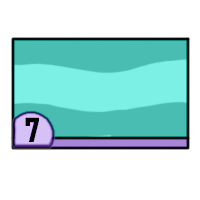
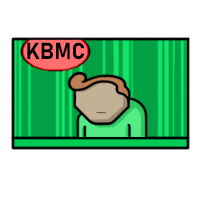
added new tv stations, and ways to display them without the same color appearing twice

diff --git a/jspsych/plugins/jspsych-source-choice.js b/jspsych/plugins/jspsych-source-choice.js
@@ -42,11 +42,11 @@ jsPsych.plugins['source-choice'] = (function(){
         default: 'high',
         description: 'If "high" then all TVs different; if "med" then one repeated 3 times; if "low" one repeated 4 times'
       },
-      anchor_ids: {
+      channel_ids: {
         type: jsPsych.plugins.parameterType.INT,
         array: true,
         default: [0, 1, 2, 3, 4],
-        description: 'Which anchor IDs to use (shuffle in main expt script)'
+        description: 'Which channel IDs to use (shuffle in main expt script)'
       },
       agreement: {
         type: jsPsych.plugins.parameterType.STRING,
@@ -212,10 +212,10 @@ jsPsych.plugins['source-choice'] = (function(){
     var rating_alert;
     var check_alert;
     if(trial.rating_type=='likelihood'){
-      rating_alert = 'Click on the bar to rate how <b>likely</b> you think this is.';
+      rating_alert = 'Click on the bar to rate how likely you think this is.';
       check_alert = 'No, look closely. Someone else thinks there is an even higher chance.';
     } else {
-      rating_alert = 'Click on the bar to rate how <b>favorably</b> you view this.';
+      rating_alert = 'Click on the bar to rate how favorably you view this.';
       check_alert = 'No, look closely. Someone else has an even more favorable view.';
     }
 
@@ -411,7 +411,6 @@ jsPsych.plugins['source-choice'] = (function(){
       var thought;
       var tvs = [];
       var backgrounds = [];
-      var anchors = [];
       var jaws = [];
       var remotesImg = [];
       var remotes = [];
@@ -431,7 +430,7 @@ jsPsych.plugins['source-choice'] = (function(){
           {r: 247, g: 147, b: 35}, {r: 9, g: 202, b: 237}];
       var hairColors = [{r: 236, g: 236, b: 25}, {r: 160, g: 68, b: 11}, {r: 167, g: 113, b: 13},
           {r: 93, g: 51, b: 4}, {r: 39, g: 26, b: 11}];
-      var headColors = [{r: 79, g: 44, b: 16}, {r: 220, g: 182, b: 83}, {r: 250, g: 235, b: 173},
+      var headColors = [{r: 117, g: 60, b: 16}, {r: 220, g: 182, b: 83}, {r: 250, g: 235, b: 173},
           {r: 209, g: 160, b: 69}, {r: 124, g: 93, b: 35}];
       var legColors = [{r: 43, g: 107, b: 171}, {r: 114, g: 181, b: 249}, {r: 41, g: 83, b: 125},
           {r: 130, g: 150, b: 169}, {r: 194, g: 188, b: 175}];
@@ -729,7 +728,7 @@ jsPsych.plugins['source-choice'] = (function(){
         if(trial.choice_type == 'random'){
           var displaySequence = [];
           for(var i = 0; i<passes; i++){
-            trial.anchor_ids.forEach(function(d,i){
+            trial.channel_ids.forEach(function(d,i){
               displaySequence.push(i);
             });
           }
@@ -768,13 +767,13 @@ jsPsych.plugins['source-choice'] = (function(){
             this.channelIndex = this.displaySequence[this.displayIndex];
           }
           sketch.image(backgrounds[this.channelIndex], 0, 0, tvSize.x, tvSize.y);
-          sketch.image(anchors[this.channelIndex], 0, 0, tvSize.x, tvSize.y);
+          // sketch.image(anchors[this.channelIndex], 0, 0, tvSize.x, tvSize.y);
           sketch.image(jaws[this.channelIndex], 0, this.jawOffset, tvSize.x, tvSize.y);
         };
 
         this.showLogo = function(){
           sketch.image(backgrounds[this.channel], 0, 0, tvSize.x, tvSize.y);
-          sketch.image(anchors[this.channel], 0, 0, tvSize.x, tvSize.y);
+          // sketch.image(anchors[this.channel], 0, 0, tvSize.x, tvSize.y);
           sketch.image(jaws[this.channel], 0, this.jawOffset, tvSize.x, tvSize.y);
           this.stable = true;
           if(trialState == 'tvStart' | trialState == 'tvsOn'){
@@ -865,8 +864,6 @@ jsPsych.plugins['source-choice'] = (function(){
 
         thought = sketch.loadImage('img/thought.png');
 
-
-
         agentParts.f.body = sketch.loadImage('img/agents/f_body.png');
         agentParts.f.head = sketch.loadImage('img/agents/f_head.png');
         agentParts.f.feet = sketch.loadImage('img/agents/feet.png');
@@ -883,18 +880,18 @@ jsPsych.plugins['source-choice'] = (function(){
           var imgPath = 'img/agents/'+gender+'_hair_'+hair+'.png';
           agentParts[gender].hair[hair] = sketch.loadImage(imgPath);
           agents[i] = new Agent(gender, hair, i);
-        })
+        });
 
         for(var j = 0; j<agentCount; j++){
+          console.log('tv counter', j)
           tvs[j] = sketch.loadImage('img/tv/tv_'+j+'.png');
           if(trial.choice_type=='intentional'){
             remotesImg[j] = sketch.loadImage('img/remotes/'+j+'.png');
           }
         }
-        trial.anchor_ids.forEach(function(d,i){
+        trial.channel_ids.forEach(function(d,i){
           backgrounds[i] = sketch.loadImage('img/tv/channel_'+d+'.png');
-          anchors[i] = sketch.loadImage('img/tv/anchor_'+d+'_body.png');
-          jaws[i] = sketch.loadImage('img/tv/anchor_'+d+'_jaw.png');
+          jaws[i] = sketch.loadImage('img/tv/channel_'+d+'_jaw.png');
         });
       };
 
@@ -905,7 +902,6 @@ jsPsych.plugins['source-choice'] = (function(){
         thought.loadPixels();
         backgrounds.forEach(function(d,i){
           backgrounds[i].loadPixels();
-          anchors[i].loadPixels();
           jaws[i].loadPixels();
         });
         agents.forEach(function(d,i){
